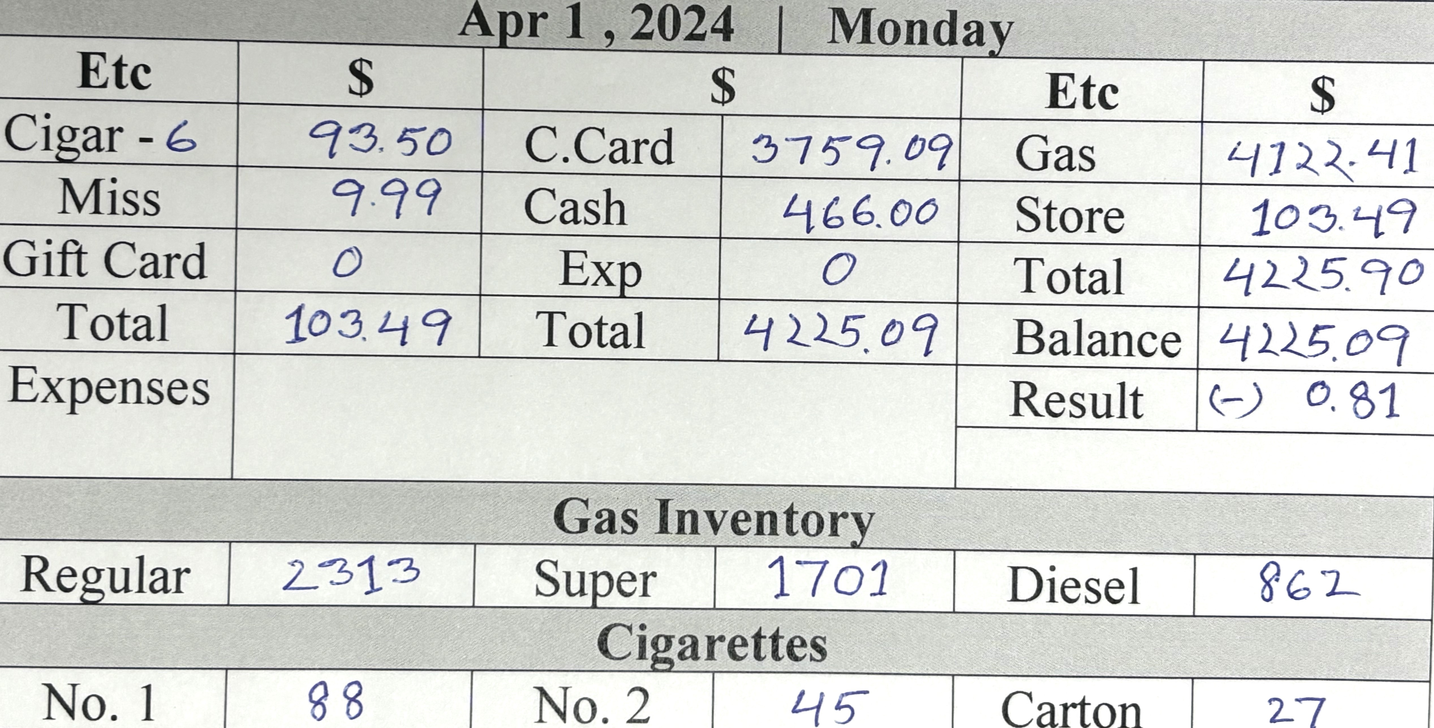
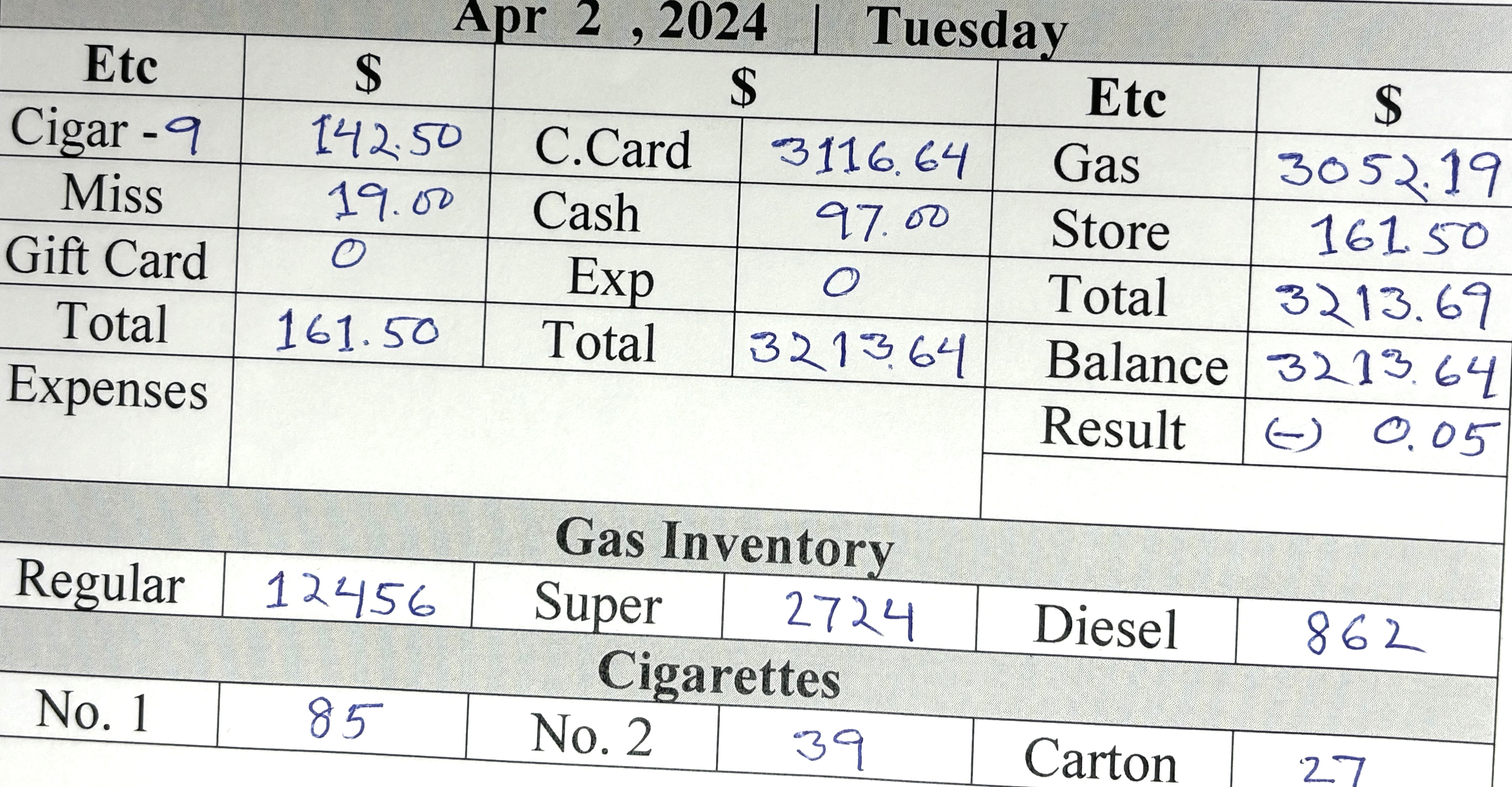
d

diff --git a/card.min.html b/card.min.html
@@ -1,1 +1,1 @@
-<!DOCTYPE html> <html lang="en"> <head> <meta charset="UTF-8"> <meta http-equiv="X-UA-Compatible" content="IE=edge"> <meta name="viewport" content="width=device-width,initial-scale=1"> <title>Gallon Info</title> <link rel="stylesheet" href="https://cdn.jsdelivr.net/npm/bootstrap@5.3.0-alpha1/dist/css/bootstrap.min.css"> </head> <body> <div class="card-group d-sm-flex flex-row bd-highlight mb- justify-content-center"> <div class="card bg-secondary align-items-center justify-content-center" style="height:50px"> <div class="card-body text-info fst-italic"> <h5 class="card-title fw-bolder text-center">Regular Price : <span class="text-warning">$3.25</span></h5> </div> </div> <div class="card bg-secondary align-items-center justify-content-center" style="height:50px"> <div class="card-body text-info fst-italic"> <h5 class="card-title fw-bolder text-center pt-">Silver Price : <span class="text-warning">$4.19</span></h5> </div> </div> <div class="card bg-secondary align-items-center justify-content-center" style="height:50px"> <div class="card-body text-info fst-italic"> <h5 class="card-title fw-bolder text-center">Super Price : <span class="text-warning">$4.29</span></h5> </div> </div> <div class="card bg-secondary align-items-center justify-content-center" style="height:50px"> <div class="card-body text-info fst-italic"> <h5 class="card-title fw-bolder text-center">Diesel Price : <span class="text-warning">$4.39</span></h5> </div> </div> </div> <div class="card-group"> <div class="card"> <button type="button" class="btn btn-warning text- fs- fw-bold text-uppercase"> For store Details <a title="printPage Me" class="text-bg-danger ms-3 fw-bolder p-1 rounded-3 text-decoration-none" href="index.html"> Click Me </a> </button> </div> </div> <div class="card-group m-0 d-sm-flex flex-row bd-highlight mb-"> <div class="card me-1 bg-info"> <h5 class="card-title text-center pt-4 m-0"> <button class="p-1 rounded-3" type="button"><a title="Click Me" class="text-decoration-none text-primary fw-bolder" href="index.html">   </a> </button> </h5>  <p class="card-text"></p> <img src="allPic/1.jpg" class="card-img-top text-danger text-center fw-bolder fs-3" alt="Call Rashid "> <div class="card-body">   <p class="card-text"></p> </div> </div> <div class="card me-1 bg-info"> <h5 class="card-title text-center pt-4 m-0"> <button class="p-1 rounded-3" type="button"><a title="Click Me" class="text-primary fw-bolder text-decoration-none" href="index.html"> Mar 31,2024 </a> </button> </h5>  <p class="card-text"></p> <img src="allPic/31.jpg" class="card-img-top text-center text-bg-danger" alt="Not Done"> <div class="card-body">   <p class="card-text"></p> </div> </div> <div class="card ms- bg-info"> <h5 class="card-title text-center pt-4 m-0"> <button class="p-1 rounded-3" type="button"><a title="Click Me" class="text-primary fw-bolder text-decoration-none" href="index.html"> Mar 30,2024 </a> </button> </h5>  <p class="card-text"></p> <img src="allPic/30.jpg" class="card-img-top text-center text-bg-danger" alt="Not Done"> <div class="card-body">   <p class="card-text"></p> </div> </div> <div class="card me-1 bg-info"> <h5 class="card-title text-center pt-4 m-0"> <button class="p-1 rounded-3" type="button"><a title="Click Me" class="text-primary fw-bolder text-decoration-none" href="index.html"> Mar 29,2024 </a> </button> </h5>  <p class="card-text"></p> <img title="Pic" src="allPic/29.jpg" class="card-img-top text-bg-danger fw-bolder text-center" alt="Already Done"> <div class="card-body">   <p class="card-text"></p> </div> </div> </div> <div class="card"> <div class="card-header bg-warning text-dark fw-bolder text-center py-3"> All Rights Reserved @ Jaber Ali , 2024 </div> </div>  <script type="text/javascript">const timeElement=document.querySelector(".time"),dateElement=document.querySelector(".date");function formatTime(e){e.getHours(),e.getMinutes(),e.getHours();return""}function formatDate(e){return` ${["January","Marruary","March","April","May","June","July","August","September","October","November","December"][e.getMonth()]} ${e.getDate()-1}, ${e.getFullYear()}`}setInterval((()=>{const e=new Date;timeElement.textContent=formatTime(e),dateElement.textContent=formatDate(e)}),200)</script> 
+<!DOCTYPE html> <html lang="en"> <head> <meta charset="UTF-8"> <meta http-equiv="X-UA-Compatible" content="IE=edge"> <meta name="viewport" content="width=device-width,initial-scale=1"> <title>Gallon Info</title> <link rel="stylesheet" href="https://cdn.jsdelivr.net/npm/bootstrap@5.3.0-alpha1/dist/css/bootstrap.min.css"> </head> <body> <div class="card-group d-sm-flex flex-row bd-highlight mb- justify-content-center"> <div class="card bg-secondary align-items-center justify-content-center" style="height:50px"> <div class="card-body text-info fst-italic"> <h5 class="card-title fw-bolder text-center">Regular Price : <span class="text-warning">$3.25</span></h5> </div> </div> <div class="card bg-secondary align-items-center justify-content-center" style="height:50px"> <div class="card-body text-info fst-italic"> <h5 class="card-title fw-bolder text-center pt-">Silver Price : <span class="text-warning">$4.19</span></h5> </div> </div> <div class="card bg-secondary align-items-center justify-content-center" style="height:50px"> <div class="card-body text-info fst-italic"> <h5 class="card-title fw-bolder text-center">Super Price : <span class="text-warning">$4.29</span></h5> </div> </div> <div class="card bg-secondary align-items-center justify-content-center" style="height:50px"> <div class="card-body text-info fst-italic"> <h5 class="card-title fw-bolder text-center">Diesel Price : <span class="text-warning">$4.39</span></h5> </div> </div> </div> <div class="card-group"> <div class="card"> <button type="button" class="btn btn-warning text- fs- fw-bold text-uppercase"> For store Details <a title="printPage Me" class="text-bg-danger ms-3 fw-bolder p-1 rounded-3 text-decoration-none" href="index.html"> Click Me </a> </button> </div> </div> <div class="card-group m-0 d-sm-flex flex-row bd-highlight mb-"> <div class="card me-1 bg-info"> <h5 class="card-title text-center pt-4 m-0"> <button class="p-1 rounded-3" type="button"><a title="Click Me" class="text-decoration-none text-primary fw-bolder" href="index.html">   </a> </button> </h5>  <p class="card-text"></p> <img src="allPic/2.jpg" class="card-img-top text-danger text-center fw-bolder fs-3" alt="Call Rashid "> <div class="card-body">   <p class="card-text"></p> </div> </div> <div class="card me-1 bg-info"> <h5 class="card-title text-center pt-4 m-0"> <button class="p-1 rounded-3" type="button"><a title="Click Me" class="text-primary fw-bolder text-decoration-none" href="index.html"> Apr 1,2024 </a> </button> </h5>  <p class="card-text"></p> <img src="allPic/1.jpg" class="card-img-top text-center text-bg-danger" alt="Not Done"> <div class="card-body">   <p class="card-text"></p> </div> </div> <div class="card ms- bg-info"> <h5 class="card-title text-center pt-4 m-0"> <button class="p-1 rounded-3" type="button"><a title="Click Me" class="text-primary fw-bolder text-decoration-none" href="index.html"> Mar 31,2024 </a> </button> </h5>  <p class="card-text"></p> <img src="allPic/31.jpg" class="card-img-top text-center text-bg-danger" alt="Not Done"> <div class="card-body">   <p class="card-text"></p> </div> </div> <div class="card me-1 bg-info"> <h5 class="card-title text-center pt-4 m-0"> <button class="p-1 rounded-3" type="button"><a title="Click Me" class="text-primary fw-bolder text-decoration-none" href="index.html"> Mar 30,2024 </a> </button> </h5>  <p class="card-text"></p> <img title="Pic" src="allPic/30.jpg" class="card-img-top text-bg-danger fw-bolder text-center" alt="Already Done"> <div class="card-body">   <p class="card-text"></p> </div> </div> </div> <div class="card"> <div class="card-header bg-warning text-dark fw-bolder text-center py-3"> All Rights Reserved @ Jaber Ali , 2024 </div> </div>  <script type="text/javascript">const timeElement=document.querySelector(".time"),dateElement=document.querySelector(".date");function formatTime(e){e.getHours(),e.getMinutes(),e.getHours();return""}function formatDate(e){return` ${["January","Marruary","March","April","May","June","July","August","September","October","November","December"][e.getMonth()]} ${e.getDate()-1}, ${e.getFullYear()}`}setInterval((()=>{const e=new Date;timeElement.textContent=formatTime(e),dateElement.textContent=formatDate(e)}),200)</script> 

diff --git a/index.min.html b/index.min.html
@@ -1,1 +1,1 @@
-<!DOCTYPE html> <html lang="en"> <head> <meta charset="UTF-8"> <meta http-equiv="X-UA-Compatible" content="IE=edge"> <meta name="viewport" content="width=device-width,initial-scale=1"> <title>Store Info</title> <link rel="stylesheet" href="https://cdn.jsdelivr.net/npm/bootstrap@5.3.0-alpha1/dist/css/bootstrap.min.css"> </head> <body> <div class="text-bg-success py-2 fw-bold text-uppercase"> <marquee behavior="" direction=""><span class="text-bolder text-bg-danger rounded-circle m-lg-2 fs-">***</span> Personal Business Information <span class="text-bolder text-bg-danger rounded-circle m-lg-2 fs-">***</span></marquee> </div> <div class="card-group"> <div class="card"> <button type="button" class="btn btn-warning fs- fw-bold text-uppercase"> For Gallon Details <a title="printPage Me" class="text-bg-danger ms-3 fw-bolder p-1 rounded-3 text-decoration-none" href="card.html"> Click Me </a> </button> </div> <div class="card"> <button type="button" class="btn btn-warning fs- fw-bold text-uppercase"> Weekly Total Money<a title="printPage Me" class="text-bg-danger ms-3 fw-bolder p-1 rounded-3 text-decoration-none" href="weekly.html"> Click Me </a> </button> </div> </div> <div class="card-group"> <div class="card"> <button type="button" class="btn btn-warning fs- fw-bold text-uppercase"> Order Cigarettes <a title="printPage Me" class="text-bg-danger ms-3 fw-bolder p-1 rounded-3 text-decoration-none" href="cigarettes.html"> Click Me </a> </button> </div> <div class="card"> <button type="button" class="btn btn-warning fs- fw-bold text-uppercase"> Oil Inventory<a title="printPage Me" class="text-bg-danger ms-3 fw-bolder p-1 rounded-3 text-decoration-none" href="oil.html"> Click Me </a> </button> </div> </div> <div class="text-center py-2"> <button class="fw-bold fs-5 rounded-2 text-bg-light text-primary"> <a title="printPage Me" class="text-decoration-none" href="card.html">   <span class=""> <button class="ms-5 fw-bolder rounded-2" onclick="printPage()"> Print Me </button></span> </a> </button> </div> <div class="card-group"> <div class="card"> <button type="button" class="btn btn-info fs- fw-bold text-uppercase"> Shift Report <span class="text-white ms-1">*</span> </button> <img src="allPic/hisab.jpg" class="card-img-top text-center text-bg-danger" alt="NOT FINISH"> </div> </div> <div class="card-grou"> <div class="card pb-3"> <button type="button" class="btn btn-secondary fs fw-bold text-uppercase"> Exp : <span class="text-warning ms-3">0 </span> </button> </div> </div> <div class="card-group"> <div class="card"> <button type="button" class="btn btn-secondary fs- fw-bold text-uppercase"> Auto shop </button> </div> </div> <div class="pb-3"> <div class="d-flex justify-content-around border border-dark fw-bolder"> <div class="p-0 text-info">T.M</div> <div class="p-0 text-danger">893 </div> <div class="p-0 text-info">Etc</div> <div class="p-0 text-danger">160</div> <div class="p-0 text-info">Rest</div> <div class="p-0 text-danger">733</div> </div> </div> <!-- #footer start --> <div class="text-bg-warning text-center py-3 fw-bold"> All Rights Reserved @ Jaber Ali , 2024 </div>  <script type="text/javascript">function printPage(){window.print()}const timeElement=document.querySelector(".time"),dateElement=document.querySelector(".date");function formatTime(t){const e=t.getHours()%12||12,n=t.getMinutes(),r=t.getHours()<12;return`${e.toString().padStart(2,"0")}:${n.toString().padStart(2,"0")} ${r?"AM":"PM"}`}function formatDate(t){return` ${["January","February","March","April","May","June","July","August","September","October","November","December"][t.getMonth()]} ${t.getDate()-1}, ${t.getFullYear()}`}setInterval((()=>{const t=new Date;timeElement.textContent=formatTime(t),dateElement.textContent=formatDate(t)}),200)</script> 
+<!DOCTYPE html> <html lang="en"> <head> <meta charset="UTF-8"> <meta http-equiv="X-UA-Compatible" content="IE=edge"> <meta name="viewport" content="width=device-width,initial-scale=1"> <title>Store Info</title> <link rel="stylesheet" href="https://cdn.jsdelivr.net/npm/bootstrap@5.3.0-alpha1/dist/css/bootstrap.min.css"> </head> <body> <div class="text-bg-success py-2 fw-bold text-uppercase"> <marquee behavior="" direction=""><span class="text-bolder text-bg-danger rounded-circle m-lg-2 fs-">***</span> Personal Business Information <span class="text-bolder text-bg-danger rounded-circle m-lg-2 fs-">***</span></marquee> </div> <div class="card-group"> <div class="card"> <button type="button" class="btn btn-warning fs- fw-bold text-uppercase"> For Gallon Details <a title="printPage Me" class="text-bg-danger ms-3 fw-bolder p-1 rounded-3 text-decoration-none" href="card.html"> Click Me </a> </button> </div> <div class="card"> <button type="button" class="btn btn-warning fs- fw-bold text-uppercase"> Weekly Total Money<a title="printPage Me" class="text-bg-danger ms-3 fw-bolder p-1 rounded-3 text-decoration-none" href="weekly.html"> Click Me </a> </button> </div> </div> <div class="card-group"> <div class="card"> <button type="button" class="btn btn-warning fs- fw-bold text-uppercase"> Order Cigarettes <a title="printPage Me" class="text-bg-danger ms-3 fw-bolder p-1 rounded-3 text-decoration-none" href="cigarettes.html"> Click Me </a> </button> </div> <div class="card"> <button type="button" class="btn btn-warning fs- fw-bold text-uppercase"> Oil Inventory<a title="printPage Me" class="text-bg-danger ms-3 fw-bolder p-1 rounded-3 text-decoration-none" href="oil.html"> Click Me </a> </button> </div> </div> <div class="text-center py-2"> <button class="fw-bold fs-5 rounded-2 text-bg-light text-primary"> <a title="printPage Me" class="text-decoration-none" href="card.html">   <span class=""> <button class="ms-5 fw-bolder rounded-2" onclick="printPage()"> Print Me </button></span> </a> </button> </div> <div class="card-group"> <div class="card"> <button type="button" class="btn btn-info fs- fw-bold text-uppercase"> Shift Report <span class="text-white ms-1">*</span> </button> <img src="allPic/hisab.jpg" class="card-img-top text-center text-bg-danger" alt="NOT FINISH"> </div> </div> <div class="card-grou"> <div class="card pb-3"> <button type="button" class="btn btn-secondary fs fw-bold text-uppercase"> Exp : <span class="text-warning ms-3">0 </span> </button> </div> </div> <div class="card-group"> <div class="card"> <button type="button" class="btn btn-secondary fs- fw-bold text-uppercase"> Auto shop </button> </div> </div> <div class="pb-3"> <div class="d-flex justify-content-around border border-dark fw-bolder"> <div class="p-0 text-info">T.M</div> <div class="p-0 text-danger">1436 </div> <div class="p-0 text-info">Etc</div> <div class="p-0 text-danger">290</div> <div class="p-0 text-info">Rest</div> <div class="p-0 text-danger">1146</div> </div> </div> <!-- #footer start --> <div class="text-bg-warning text-center py-3 fw-bold"> All Rights Reserved @ Jaber Ali , 2024 </div>  <script type="text/javascript">function printPage(){window.print()}const timeElement=document.querySelector(".time"),dateElement=document.querySelector(".date");function formatTime(t){const e=t.getHours()%12||12,n=t.getMinutes(),r=t.getHours()<12;return`${e.toString().padStart(2,"0")}:${n.toString().padStart(2,"0")} ${r?"AM":"PM"}`}function formatDate(t){return` ${["January","February","March","April","May","June","July","August","September","October","November","December"][t.getMonth()]} ${t.getDate()-1}, ${t.getFullYear()}`}setInterval((()=>{const t=new Date;timeElement.textContent=formatTime(t),dateElement.textContent=formatDate(t)}),200)</script> 

diff --git a/weekly.min.html b/weekly.min.html
@@ -1,1 +1,1 @@
-<!DOCTYPE html> <html lang="en"> <meta charset="UTF-8"> <meta http-equiv="X-UA-Compatible" content="IE=edge"> <meta name="viewport" content="width=device-width,initial-scale=1"> <title>Cigarettes Info</title> <link rel="stylesheet" href="https://cdn.jsdelivr.net/npm/bootstrap@5.3.0-alpha1/dist/css/bootstrap.min.css">  <body> <div class="text-bg-success py-2 fw-bold"> <marquee behavior="" direction="">Weekly Total Sales Money</marquee> </div> <div class="container-fluid text-center m-0 p-0"> <div class="card-group"> <div class="card"> <button type="button" class="btn btn-warning fs- fw-bold text-uppercase"> Home Page <a title="printPage Me" class="text-bg-danger ms-2 fw-bolder p-1 rounded-3 text-decoration-none" href="index.html"> Click Me </a> </button> </div> </div> <div class="text-bg-info text-cente py- fw-bold mb-"> <div class="card-group m-0 d-sm-flex flex-row bd-highlight mb-"> <div class="card me- bg-inf"> <h5 class="text-center ms-5 mt-3 text-danger">Current Week</h5> <div class="card-body ms-3 p-0"> <table class="table"> <tr class="text-end"> <td>Monday </td> <td>:</td> <td class="text-start"> 466.00</td> </tr> <tr class="text-end"> <td>Tuesday </td> <td> :</td> <td class="text-start"> .00 </td> </tr> <tr class="text-end"> <td>Wednesday</td> <td> :</td> <td class="text-start">.00</td> </tr> <tr class="text-end"> <td>Thursday </td> <td> :</td> <td class="text-start">.00 </td> </tr> <tr class="text-end"> <td class="">Friday </td> <td> :</td> <td class="text-start"> .00</td> </tr> <tr class="text-end"> <td>Saturday </td> <td> :</td> <td class="text-start">.00</td> </tr> <tr class="text-end"> <td>Sunday </td> <td> :</td> <td class="text-start"> .00 </td> </tr> <tr class="text-end"> <td>Auto Money </td> <td> :</td> <td class="text-start"> .00 </td> </tr> </table> <div class="m-0 p-0"> <p class="text-center text-danger bg-light fw-bold">Total Money : 0 </p> </div> </div> </div> <div class="card me- bg-inf"> <h5 class="text-center ms- mt-3 text-danger">Last Week : Mar 25 to 31 , 2024</h5> <div class="card-body ms-3 p-0"> <table class="table"> <tr class="text-end"> <td>Monday </td> <td>:</td> <td class="text-start"> 1040.00</td> </tr> <tr class="text-end"> <td>Tuesday </td> <td> :</td> <td class="text-start"> 1018.00 </td> </tr> <tr class="text-end"> <td>Wednesday</td> <td> :</td> <td class="text-start">719.00</td> </tr> <tr class="text-end"> <td>Thursday </td> <td> :</td> <td class="text-start">601.00 </td> </tr> <tr class="text-end"> <td class="">Friday </td> <td> :</td> <td class="text-start"> 881.00</td> </tr> <tr class="text-end"> <td>Saturday </td> <td> :</td> <td class="text-start">869.00</td> </tr> <tr class="text-end"> <td>Sunday </td> <td> :</td> <td class="text-start"> 733.00 </td> </tr> <tr class="text-end"> <td>Auto Money </td> <td> :</td> <td class="text-start">585 <sup class="p-1 rounded-4 text-bg-dark">Tax:14</sup> [Mostofa=571] </td> </tr> </table> <div class="m-0 p-0"> <p class="text-center text-danger bg-light fw-bold">Total Money : 6446 - 1223 = 5223 </p> </div> </div> </div> <div class="card me- bg-"> <div class="card-body"> <h5 class="text-start text-danger ms-2">Expenses of Last Week</h5> <table class="table text-start"> <tr> <td class="">Ali <span class="ms-5">: 495.00</span></td> </tr> <tr> <td class="">Rashid <span class="ms-3">: 728.00</span></td> </tr> <tr> <td class="text-bg-warning text-dark rounded-2">Total <span class="ms-4">: 1223.00</span></td> </tr> </table> </div> </div> </div> </div> <!-- #footer start --> <div class="text-bg-success text-center py-2 fw-bold"> <p> All Rights Reserved @ Jaber Ali , 2024  </p> </div> </div> <script type="text/javascript">function printPage(){window.print()}</script> 
+<!DOCTYPE html> <html lang="en"> <meta charset="UTF-8"> <meta http-equiv="X-UA-Compatible" content="IE=edge"> <meta name="viewport" content="width=device-width,initial-scale=1"> <title>Cigarettes Info</title> <link rel="stylesheet" href="https://cdn.jsdelivr.net/npm/bootstrap@5.3.0-alpha1/dist/css/bootstrap.min.css">  <body> <div class="text-bg-success py-2 fw-bold"> <marquee behavior="" direction="">Weekly Total Sales Money</marquee> </div> <div class="container-fluid text-center m-0 p-0"> <div class="card-group"> <div class="card"> <button type="button" class="btn btn-warning fs- fw-bold text-uppercase"> Home Page <a title="printPage Me" class="text-bg-danger ms-2 fw-bolder p-1 rounded-3 text-decoration-none" href="index.html"> Click Me </a> </button> </div> </div> <div class="text-bg-info text-cente py- fw-bold mb-"> <div class="card-group m-0 d-sm-flex flex-row bd-highlight mb-"> <div class="card me- bg-inf"> <h5 class="text-center ms-5 mt-3 text-danger">Current Week</h5> <div class="card-body ms-3 p-0"> <table class="table"> <tr class="text-end"> <td>Monday </td> <td>:</td> <td class="text-start"> 466.00</td> </tr> <tr class="text-end"> <td>Tuesday </td> <td> :</td> <td class="text-start"> 97.00 </td> </tr> <tr class="text-end"> <td>Wednesday</td> <td> :</td> <td class="text-start">.00</td> </tr> <tr class="text-end"> <td>Thursday </td> <td> :</td> <td class="text-start">.00 </td> </tr> <tr class="text-end"> <td class="">Friday </td> <td> :</td> <td class="text-start"> .00</td> </tr> <tr class="text-end"> <td>Saturday </td> <td> :</td> <td class="text-start">.00</td> </tr> <tr class="text-end"> <td>Sunday </td> <td> :</td> <td class="text-start"> .00 </td> </tr> <tr class="text-end"> <td>Auto Money </td> <td> :</td> <td class="text-start"> .00 </td> </tr> </table> <div class="m-0 p-0"> <p class="text-center text-danger bg-light fw-bold">Total Money : 0 </p> </div> </div> </div> <div class="card me- bg-inf"> <h5 class="text-center ms- mt-3 text-danger">Last Week : Mar 25 to 31 , 2024</h5> <div class="card-body ms-3 p-0"> <table class="table"> <tr class="text-end"> <td>Monday </td> <td>:</td> <td class="text-start"> 1040.00</td> </tr> <tr class="text-end"> <td>Tuesday </td> <td> :</td> <td class="text-start"> 1018.00 </td> </tr> <tr class="text-end"> <td>Wednesday</td> <td> :</td> <td class="text-start">719.00</td> </tr> <tr class="text-end"> <td>Thursday </td> <td> :</td> <td class="text-start">601.00 </td> </tr> <tr class="text-end"> <td class="">Friday </td> <td> :</td> <td class="text-start"> 881.00</td> </tr> <tr class="text-end"> <td>Saturday </td> <td> :</td> <td class="text-start">869.00</td> </tr> <tr class="text-end"> <td>Sunday </td> <td> :</td> <td class="text-start"> 733.00 </td> </tr> <tr class="text-end"> <td>Auto Money </td> <td> :</td> <td class="text-start">585 <sup class="p-1 rounded-4 text-bg-dark">Tax:14</sup> [Mostofa=571] </td> </tr> </table> <div class="m-0 p-0"> <p class="text-center text-danger bg-light fw-bold">Total Money : 6446 - 1223 = 5223 </p> </div> </div> </div> <div class="card me- bg-"> <div class="card-body"> <h5 class="text-start text-danger ms-2">Expenses of Last Week</h5> <table class="table text-start"> <tr> <td class="">Ali <span class="ms-5">: 495.00</span></td> </tr> <tr> <td class="">Rashid <span class="ms-3">: 728.00</span></td> </tr> <tr> <td class="text-bg-warning text-dark rounded-2">Total <span class="ms-4">: 1223.00</span></td> </tr> </table> </div> </div> </div> </div> <!-- #footer start --> <div class="text-bg-success text-center py-2 fw-bold"> <p> All Rights Reserved @ Jaber Ali , 2024  </p> </div> </div> <script type="text/javascript">function printPage(){window.print()}</script> 

diff --git a/oil.min.html b/oil.min.html
@@ -1,1 +1,1 @@
-<!DOCTYPE html> <html lang="en"> <meta charset="UTF-8"> <meta http-equiv="X-UA-Compatible" content="IE=edge"> <meta name="viewport" content="width=device-width,initial-scale=1"> <title>Oil Inentory</title> <link rel="stylesheet" href="https://cdn.jsdelivr.net/npm/bootstrap@5.3.0-alpha1/dist/css/bootstrap.min.css">  <body> <div class="text-bg-success py-2 fw-bold"> <marquee behavior="" direction="">OIL INVENTORY</marquee> </div> <div class="container-fluid text-center m-0 p-0"> <div class="card-group"> <div class="card"> <button type="button" class="btn btn-warning fs- fw-bold text-uppercase"> Home Page <a title="printPage Me" class="text-bg-danger ms-2 fw-bolder p-1 rounded-3 text-decoration-none" href="index.html"> Click Me </a> </button> </div> </div> <div class="text-bg-inf fw-bold mb-"> <div class="card-group m- text-cente d-sm-flex flex-row bd-highlight mb-"> <div class="container mt-3"> <h3>Oil Inventory</h3> <div class="table-responsive-sm"> <table class="table table-bordered"> <tbody> <thead class="text-bg-dark fw-bolder"> <tr> <td>Name</td> <td>Quantity</td> <td>Sold</td> </tr> </thead> <tr> <td>Synthetic Oil</td> <td>27</td> <td>0</td> </tr> <tr> <td>Regular Oil</td> <td>44</td> <td>0 </td> </tr> <tr> <td>Washer Fluid</td> <td>5</td> <td>2</td> </tr> <tr> <td>Antifreeze </td> <td>4</td> <td>4</td> </tr> <tr> <td>Gas Can</td> <td>4</td> <td>0</td> </tr> <tr> <td>Rhino Item</td> <td>107</td> <td>0</td> </tr> </tbody> </table> </div> </div> </div> </div> </div> <!-- #footer start --> <div class="text-bg-success text-center py-2 fw-bold"> <p> All Rights Reserved @ Jaber Ali , 2024  </p> </div>  <script type="text/javascript">function printPage(){window.print()}</script> 
+<!DOCTYPE html> <html lang="en"> <meta charset="UTF-8"> <meta http-equiv="X-UA-Compatible" content="IE=edge"> <meta name="viewport" content="width=device-width,initial-scale=1"> <title>Oil Inentory</title> <link rel="stylesheet" href="https://cdn.jsdelivr.net/npm/bootstrap@5.3.0-alpha1/dist/css/bootstrap.min.css">  <body> <div class="text-bg-success py-2 fw-bold"> <marquee behavior="" direction="">OIL INVENTORY</marquee> </div> <div class="container-fluid text-center m-0 p-0"> <div class="card-group"> <div class="card"> <button type="button" class="btn btn-warning fs- fw-bold text-uppercase"> Home Page <a title="printPage Me" class="text-bg-danger ms-2 fw-bolder p-1 rounded-3 text-decoration-none" href="index.html"> Click Me </a> </button> </div> </div> <div class="text-bg-inf fw-bold mb-"> <div class="card-group m- text-cente d-sm-flex flex-row bd-highlight mb-"> <div class="container mt-3"> <h3>Oil Inventory</h3> <div class="table-responsive-sm"> <table class="table table-bordered"> <tbody> <thead class="text-bg-dark fw-bolder"> <tr> <td>Name</td> <td>Quantity</td> <td>Sold</td> </tr> </thead> <tr> <td>Synthetic Oil</td> <td>26</td> <td>1</td> </tr> <tr> <td>Regular Oil</td> <td>44</td> <td>0 </td> </tr> <tr> <td>Washer Fluid</td> <td>5</td> <td>0</td> </tr> <tr> <td>Antifreeze </td> <td>4</td> <td>0</td> </tr> <tr> <td>Gas Can</td> <td>4</td> <td>0</td> </tr> <tr> <td>Rhino Item</td> <td>107</td> <td>0</td> </tr> </tbody> </table> </div> </div> </div> </div> </div> <!-- #footer start --> <div class="text-bg-success text-center py-2 fw-bold"> <p> All Rights Reserved @ Jaber Ali , 2024  </p> </div>  <script type="text/javascript">function printPage(){window.print()}</script> 

diff --git a/card.html b/card.html
@@ -67,7 +67,7 @@
         </h5>
           <p class="card-text"></p>
           <p class="card-text"><small class="text-muted"></small></p>
-        <img src="allPic/1.jpg" class="card-img-top text-danger text-center fw-bolder fs-3"   alt="Call Rashid ">
+        <img src="allPic/2.jpg" class="card-img-top text-danger text-center fw-bolder fs-3"   alt="Call Rashid ">
         <div class="card-body">
           <h5 class="card-title"></h5>
           <p class="card-text"></p>
@@ -78,13 +78,13 @@
         <h5 class="card-title text-center pt-4 m-0">
           <button class="p-1 rounded-3" type="button"><a title="Click Me"
              class="text-primary fw-bolder text-decoration-none " href="index.html">
-             Mar 31,2024
+             Apr 1,2024
           </a>
           </button>
         </h5>
           <p class="card-text"></p>
           <p class="card-text"><small class="text-muted"></small></p>
-        <img src="allPic/31.jpg" class="card-img-top text-center text-bg-danger" 
+        <img src="allPic/1.jpg" class="card-img-top text-center text-bg-danger" 
         alt="Not Done">
         <div class="card-body">
           <h5 class="card-title"></h5>
@@ -96,13 +96,13 @@
         <h5 class="card-title text-center pt-4 m-0 ">
           <button class="p-1 rounded-3" type="button"><a title="Click Me" 
             class="text-primary fw-bolder text-decoration-none " href="index.html">
-            Mar 30,2024         
+            Mar 31,2024         
           </a>
           </button>
           </h5>
           <p class="card-text"></p>
           <p class="card-text"><small class="text-muted"></small></p>
-        <img src="allPic/30.jpg" class="card-img-top text-center text-bg-danger" 
+        <img src="allPic/31.jpg" class="card-img-top text-center text-bg-danger" 
         alt="Not Done">
         <div class="card-body">
           <h5 class="card-title"></h5>
@@ -115,13 +115,13 @@
         <h5 class="card-title text-center pt-4 m-0 ">
           <button class="p-1 rounded-3" type="button"><a title="Click Me" 
             class="text-primary fw-bolder text-decoration-none " href="index.html">
-             Mar 29,2024
+             Mar 30,2024
             </a>
           </button>
           </h5>
           <p class="card-text"></p>
           <p class="card-text"><small class="text-muted"></small></p>
-        <img title="Pic" src="allPic/29.jpg" class="card-img-top  text-bg-danger fw-bolder text-center"
+        <img title="Pic" src="allPic/30.jpg" class="card-img-top  text-bg-danger fw-bolder text-center"
          alt="Already Done">
         <div class="card-body">
           <h5 class="card-title"></h5>

diff --git a/oil.html b/oil.html
@@ -56,8 +56,8 @@
                     </thead>
                   <tr>
                     <td>Synthetic Oil</td>
-                    <td>27</td>
-                    <td>0</td>
+                    <td>26</td>
+                    <td>1</td>
                   </tr>
                   <tr>
                     <td>Regular Oil</td>
@@ -68,12 +68,12 @@
                   <tr>
                     <td>Washer Fluid</td>
                     <td>5</td>
-                    <td>2</td>
+                    <td>0</td>
                   </tr>
                   <tr>
                     <td>Antifreeze </td>
                     <td>4</td>
-                    <td>4</td>
+                    <td>0</td>
                   </tr>
                   <tr>
                     <td>Gas Can</td>

diff --git a/index.html b/index.html
@@ -118,11 +118,11 @@
       <div class="d-flex justify-content-around border border-dark fw-bolder">
         <!--this week start-->
         <div class="p-0 text-info">T.M</div>
-        <div class="p-0 text-danger">893 </div>
+        <div class="p-0 text-danger">1436 </div>
         <div class="p-0 text-info">Etc</div>
-        <div class="p-0 text-danger">160</div>
+        <div class="p-0 text-danger">290</div>
         <div class="p-0 text-info">Rest</div>
-        <div class="p-0 text-danger">733</div>
+        <div class="p-0 text-danger">1146</div>
           <!--15-->
         </div>
       </div>

diff --git a/weekly.html b/weekly.html
@@ -54,7 +54,7 @@
                 <tr class=" text-end">
                     <td>Tuesday </td>
                     <td> :</td>
-                    <td class="text-start">  .00 </td>
+                    <td class="text-start">  97.00 </td>
                 </tr>
                 <tr class=" text-end">
                     <td>Wednesday</td>
